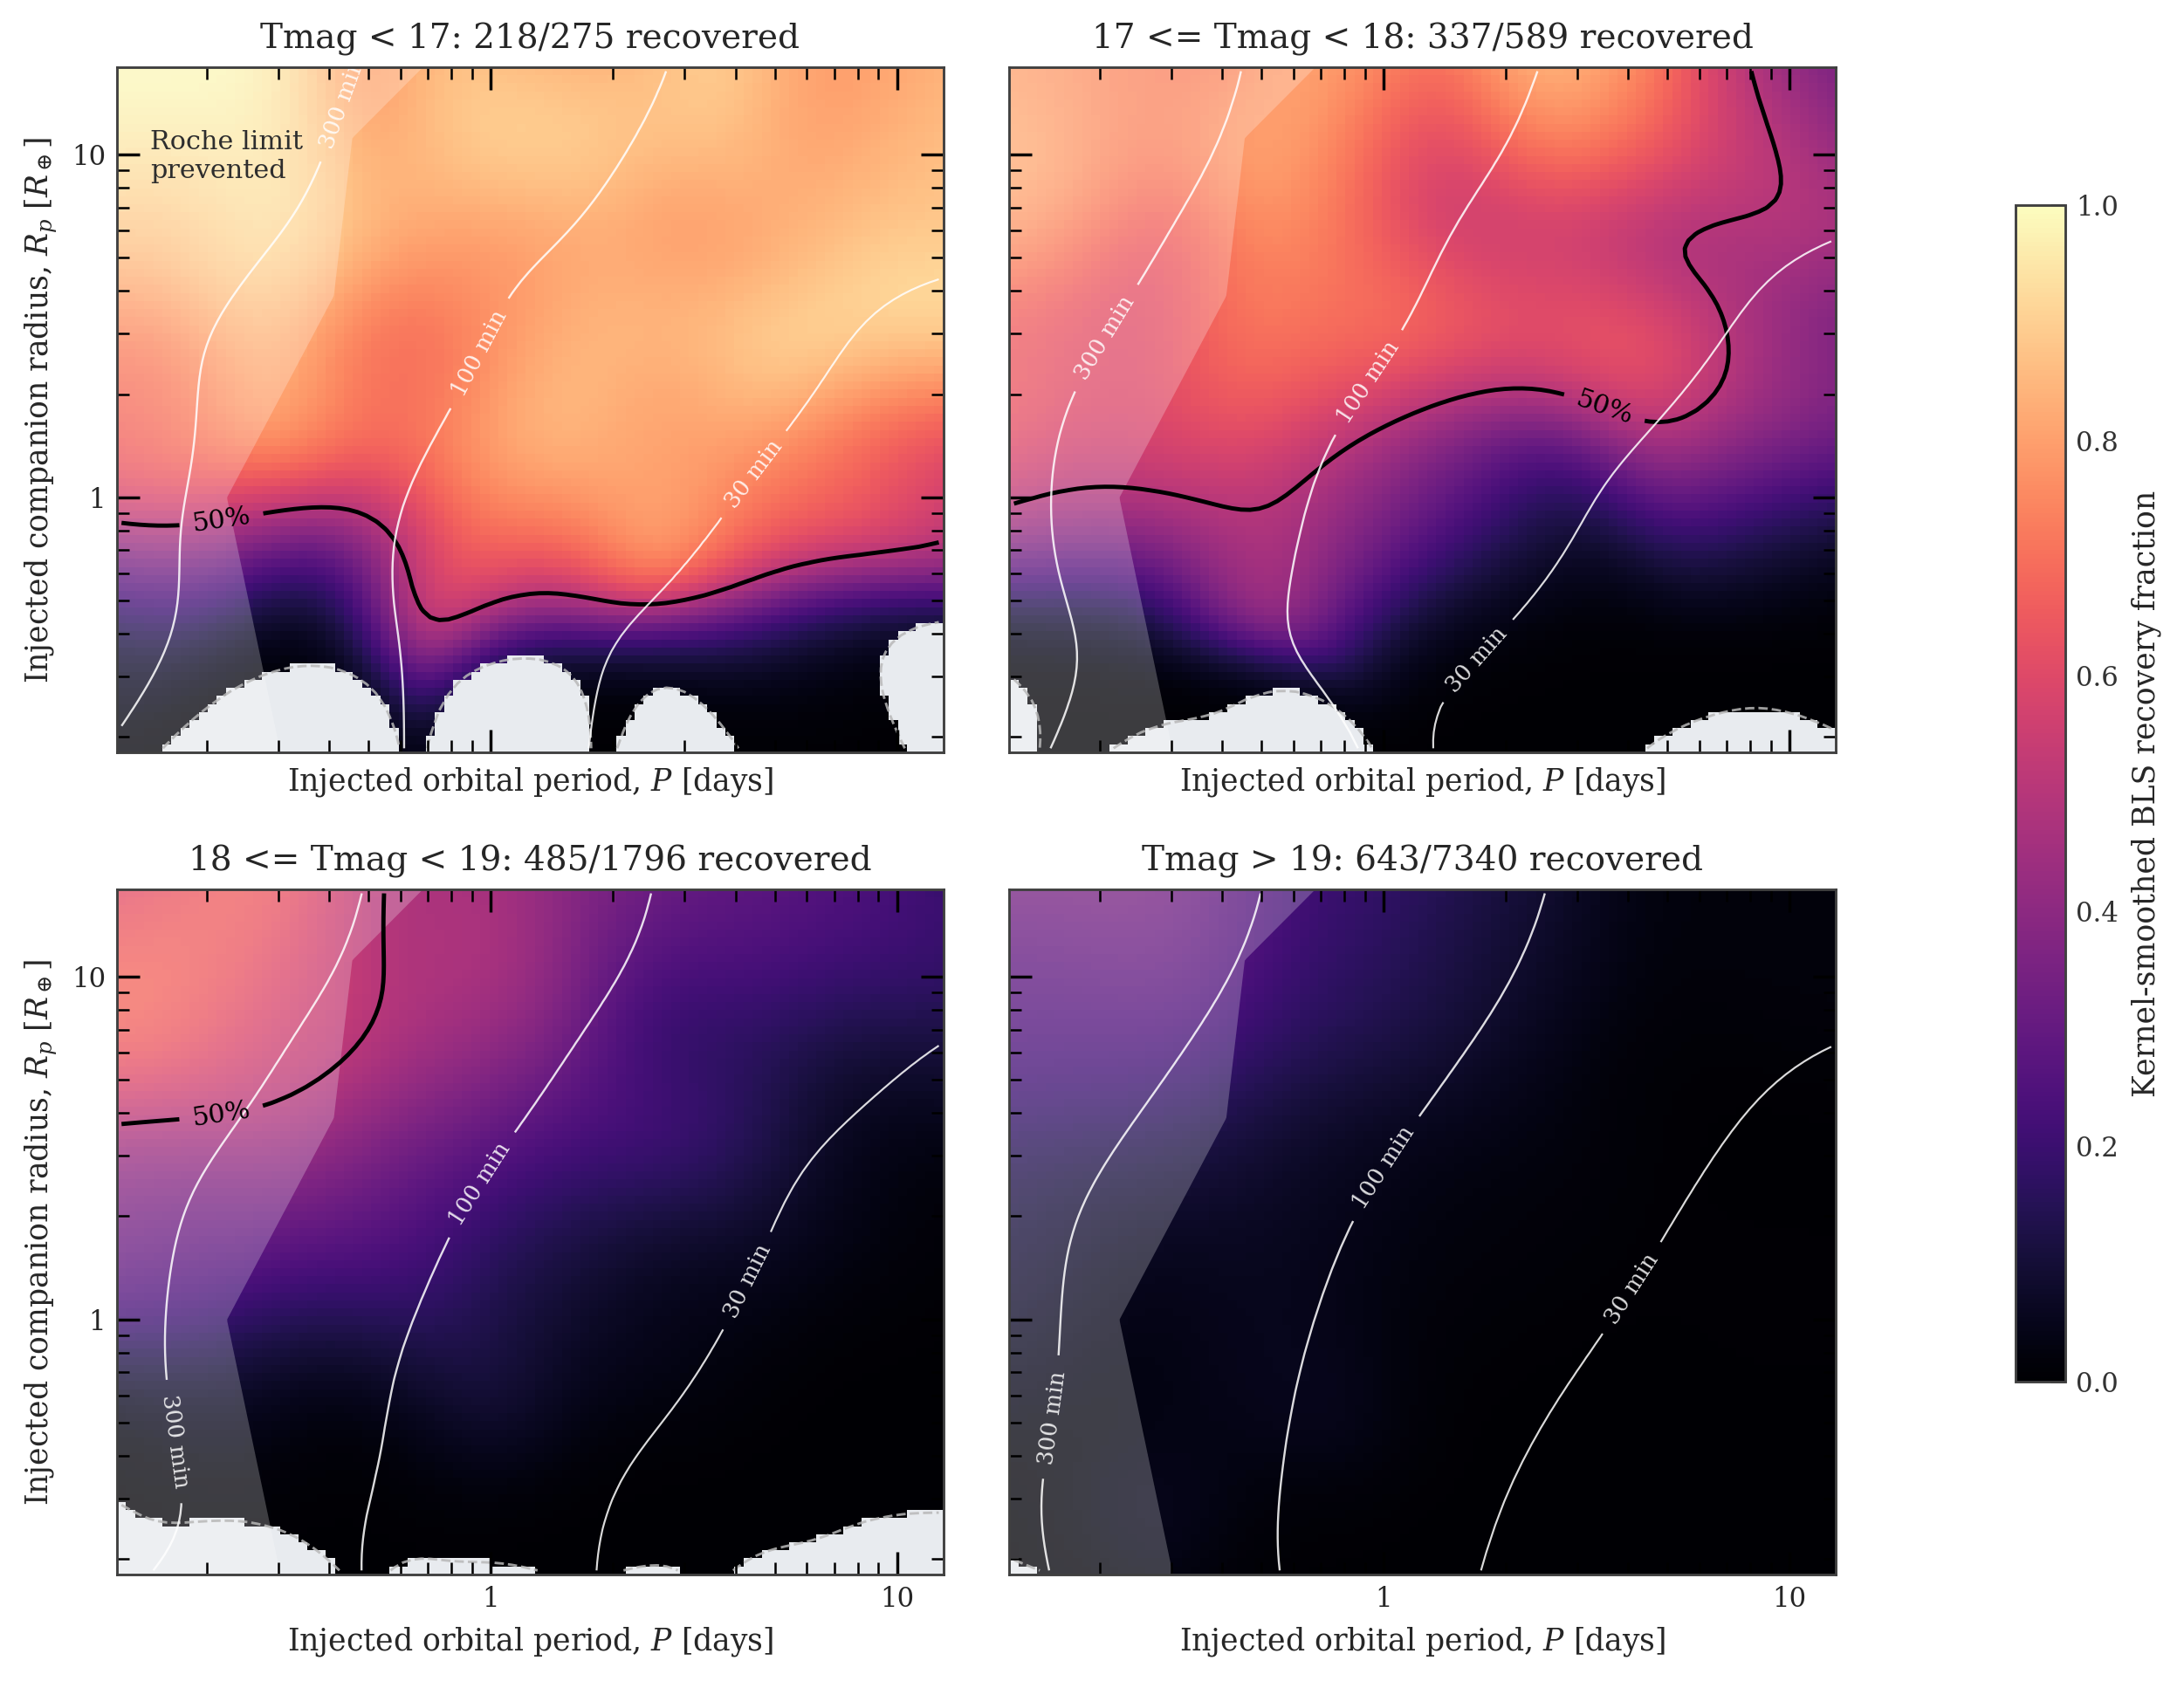
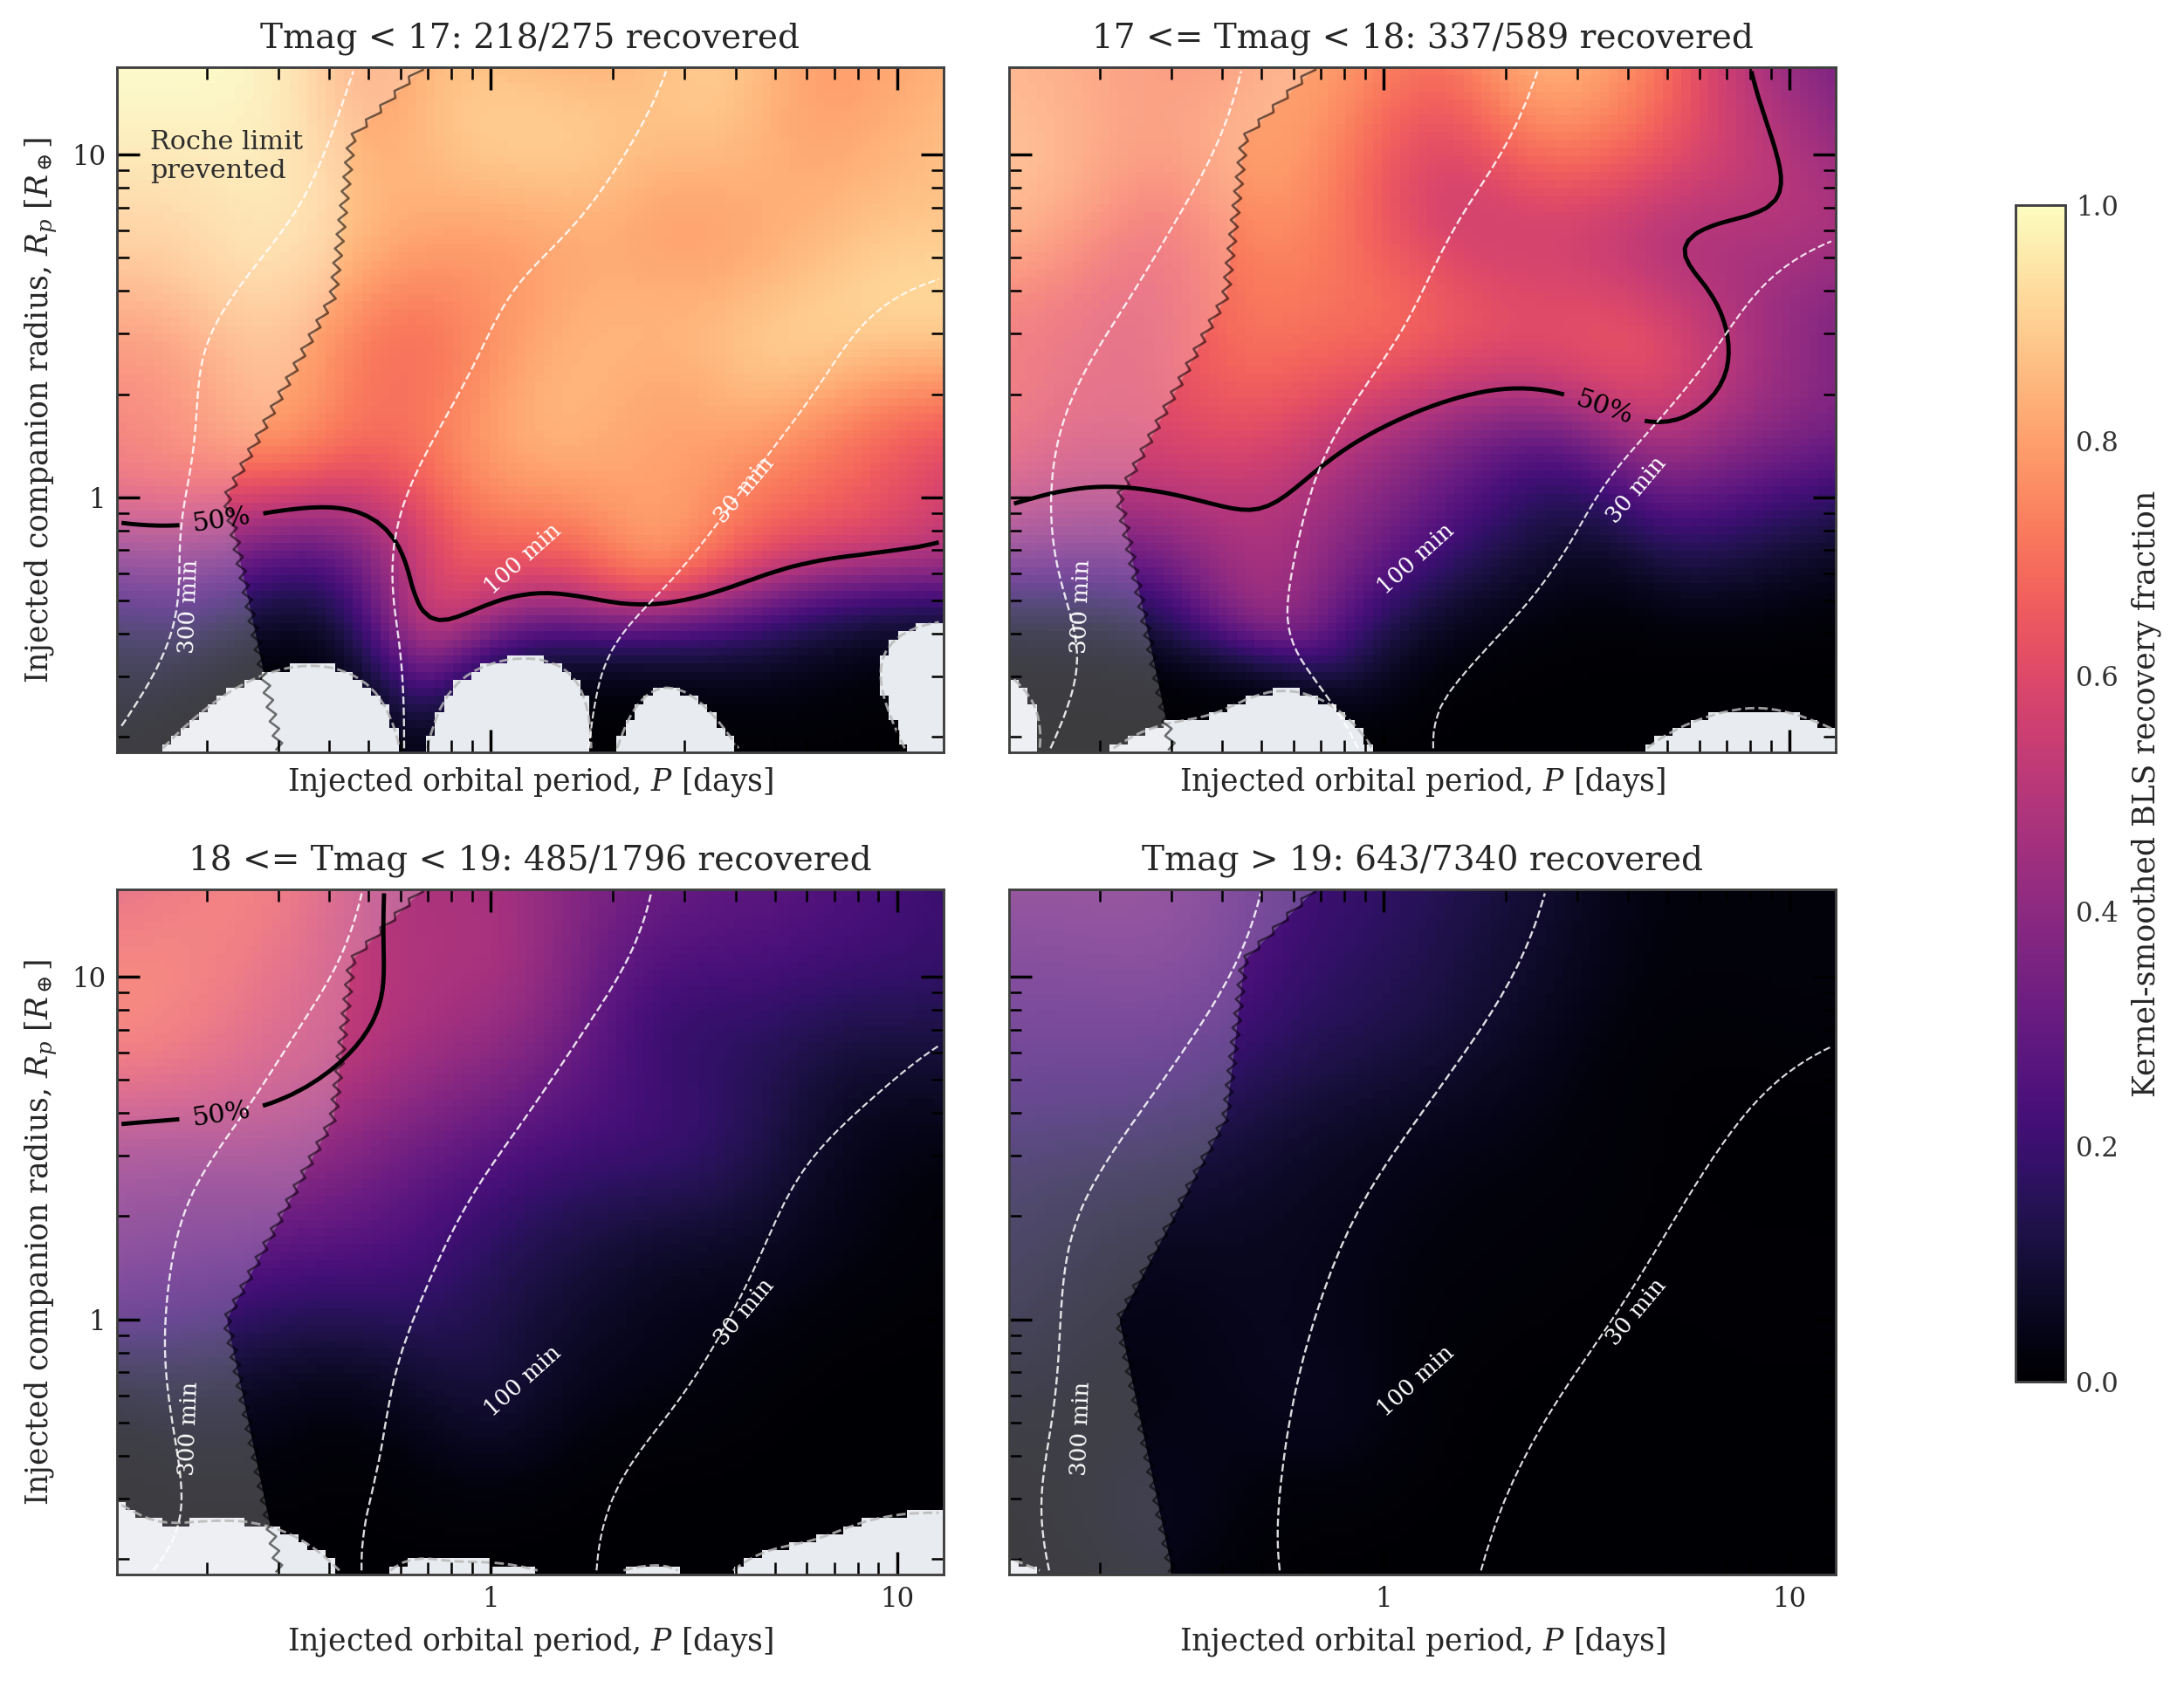
Refine recovery map contour labels

diff --git a/scripts/stage5_validation/plot_s56_duration_aware_recovery.py b/scripts/stage5_validation/plot_s56_duration_aware_recovery.py
@@ -360,6 +360,39 @@ def _fluid_roche_period_d(radius_rearth: np.ndarray) -> np.ndarray:
     return period_s / 86400.0
 
 
+def _plot_roche_break_boundary(ax: Any, period_d: np.ndarray, radius_rearth: np.ndarray) -> None:
+    xmin, xmax = ax.get_xlim()
+    ymin, ymax = ax.get_ylim()
+    finite = (
+        np.isfinite(period_d)
+        & np.isfinite(radius_rearth)
+        & (period_d > xmin)
+        & (period_d < xmax)
+        & (radius_rearth > ymin)
+        & (radius_rearth < ymax)
+    )
+    if finite.sum() < 8:
+        return
+    radius = np.asarray(radius_rearth[finite], dtype=float)
+    period = np.asarray(period_d[finite], dtype=float)
+    order = np.argsort(radius)
+    radius = radius[order]
+    period = period[order]
+    radius_s = np.geomspace(radius[0], radius[-1], 96)
+    log_period_s = np.interp(np.log10(radius_s), np.log10(radius), np.log10(period))
+    zigzag = np.where(np.arange(radius_s.size) % 2 == 0, -1.0, 1.0)
+    period_s = np.power(10.0, log_period_s + 0.010 * zigzag)
+    ax.plot(
+        period_s,
+        radius_s,
+        color="black",
+        linewidth=0.7,
+        alpha=0.55,
+        zorder=3,
+        solid_capstyle="butt",
+    )
+
+
 def _kernel_recovery_surface_logxy(
     df: pd.DataFrame,
     *,
@@ -754,6 +787,7 @@ def plot_publication_period_radius_recovery_map(df: pd.DataFrame, out_dir: Path)
             linewidth=0,
             zorder=1,
         )
+        _plot_roche_break_boundary(ax, roche_period, roche_radius)
         if finite_masked is not None and finite_masked[0] <= 0.5 <= finite_masked[1]:
             contour = ax.contour(
                 period_centers,
@@ -785,16 +819,27 @@ def plot_publication_period_radius_recovery_map(df: pd.DataFrame, out_dir: Path)
                 levels=[30.0, 100.0, 300.0],
                 colors=["white"],
                 linewidths=[0.60, 0.66, 0.66],
-                linestyles=["-"],
+                linestyles=["--"],
                 alpha=0.86,
             )
-            ax.clabel(
-                dcont,
-                fmt=lambda value: f"{value:g} min",
-                fontsize=contour_fs,
-                inline=True,
-                colors=["white"],
-            )
+            duration_label_positions = {
+                30.0: (4.2, 1.05, 50.0),
+                100.0: (1.2, 0.66, 42.0),
+                300.0: (0.18, 0.48, 88.0),
+            }
+            for level, (text_x, text_y, rotation) in duration_label_positions.items():
+                if finite_total_time[0] <= level <= finite_total_time[1]:
+                    ax.text(
+                        text_x,
+                        text_y,
+                        f"{level:g} min",
+                        color="white",
+                        fontsize=contour_fs,
+                        rotation=rotation,
+                        ha="center",
+                        va="center",
+                        zorder=7,
+                    )
         for p_idx, period_d in enumerate(period_centers):
             for r_idx, radius_rearth in enumerate(radius_centers):
                 rows.append(

diff --git a/doc/twirl_progress_log.md b/doc/twirl_progress_log.md
@@ -362,6 +362,7 @@ _No entries yet. Blocked on photometric QA (1.6)._
 - `2026-06-24`: Revised the same publication map after another visual pass. The [20k PNG](../reports/stage5_validation/s56_20k_predetrend_physical_bright_bls_map_pdo/duration_aware/period_radius_empirical_recovery_publication.png) is back on the original `magma` colormap, removes the bottom in-figure caption, changes panel titles to `recovered/injected`, labels the y-axis as `R_p [R_earth]` with math text, and changes the thin contour field from single-transit duration to total in-transit time over a reference `27 d` sector (`duration * 27 d / period`). The Roche annotation is now labeled along the curve, and the report text cites the Roche period-density framing from Rappaport et al. (2013, 2021) while noting that dense brown dwarfs require a mass/density model rather than a radius-only curve. The [10k preview](../reports/stage5_validation/s56_10k_predetrend_dense_bls_map_pdo/duration_aware/period_radius_empirical_recovery_publication.png) was re-rendered from the same script.
 - `2026-06-24`: Final visual tweak to the same [20k map](../reports/stage5_validation/s56_20k_predetrend_physical_bright_bls_map_pdo/duration_aware/period_radius_empirical_recovery_publication.png): the Roche estimate is now a grey low-alpha region labelled `Roche limit prevented` rather than a drawn curve, the total-in-transit-time contours and labels are white-only, and tick marks are raised above the heatmap artists after all overlays are drawn. The [10k preview](../reports/stage5_validation/s56_10k_predetrend_dense_bls_map_pdo/duration_aware/period_radius_empirical_recovery_publication.png) was re-rendered from the same script.
 - `2026-06-24`: Applied the final typography pass to the same [20k map](../reports/stage5_validation/s56_20k_predetrend_physical_bright_bls_map_pdo/duration_aware/period_radius_empirical_recovery_publication.png): text is about `20%` larger, the figure canvas is slightly narrower, ticks/subticks are black on all four sides, and the Roche-prevented overlay now uses a low-alpha light wash rather than a grey fill with its label moved to the top of the panel. The [10k preview](../reports/stage5_validation/s56_10k_predetrend_dense_bls_map_pdo/duration_aware/period_radius_empirical_recovery_publication.png) was re-rendered from the same script.
+- `2026-06-24`: Adjusted the same [20k map](../reports/stage5_validation/s56_20k_predetrend_physical_bright_bls_map_pdo/duration_aware/period_radius_empirical_recovery_publication.png) so total-in-transit-time contours are dashed white lines with manually placed lower-half labels instead of Matplotlib auto-label placement, and added a jagged break marker at the Roche-prevented overlay boundary. The [10k preview](../reports/stage5_validation/s56_10k_predetrend_dense_bls_map_pdo/duration_aware/period_radius_empirical_recovery_publication.png) was re-rendered from the same script.
 
 **Next:** Human-check the current `1k` LEO-only injection queue, port the `wd_review_high_purity` preset into the WD LEO fork as an explicit review class for a PDO smoke rerun, and build the compact S56 TWIRL-FS v2 export for ORCD/H200. Do not start large-scale human labels or teacher-model training until BLS recovery, LEO class/review class, and human labels are kept as distinct provenance columns.
 